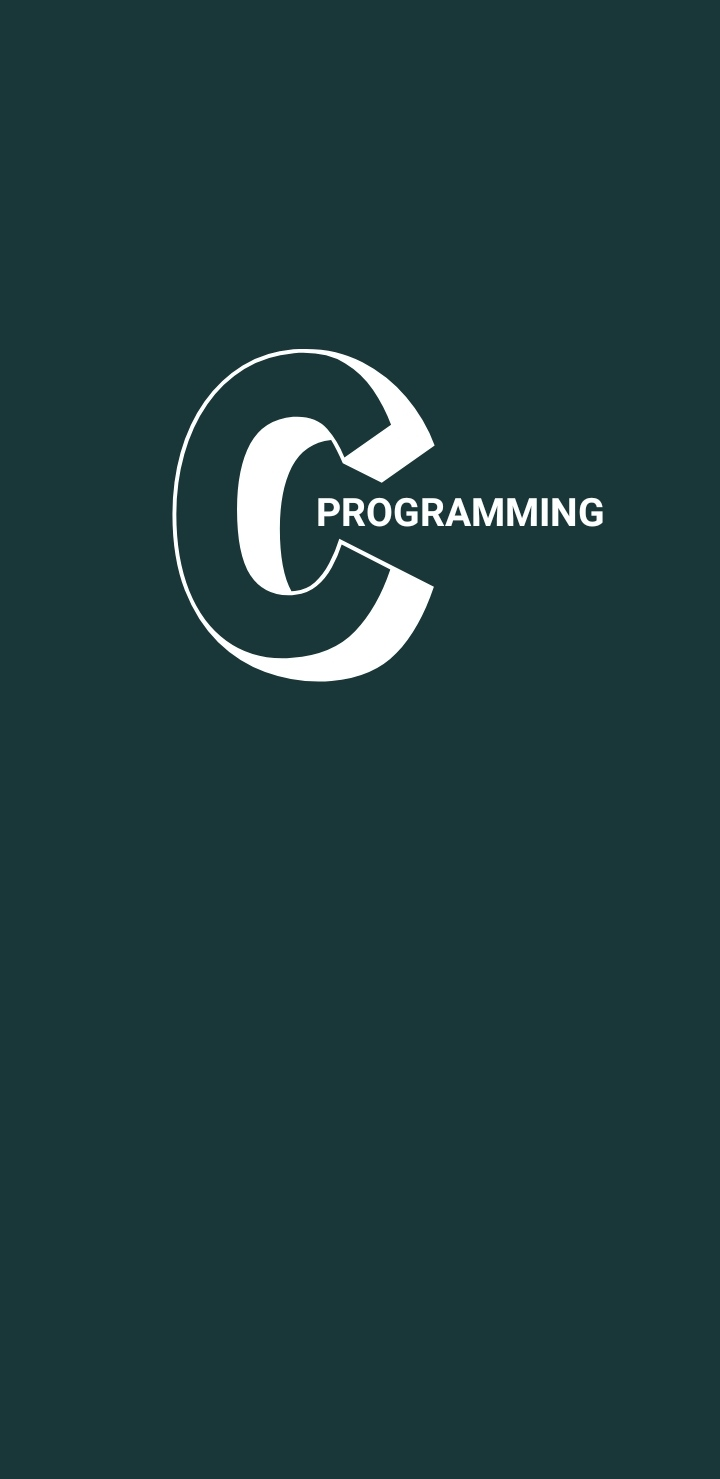
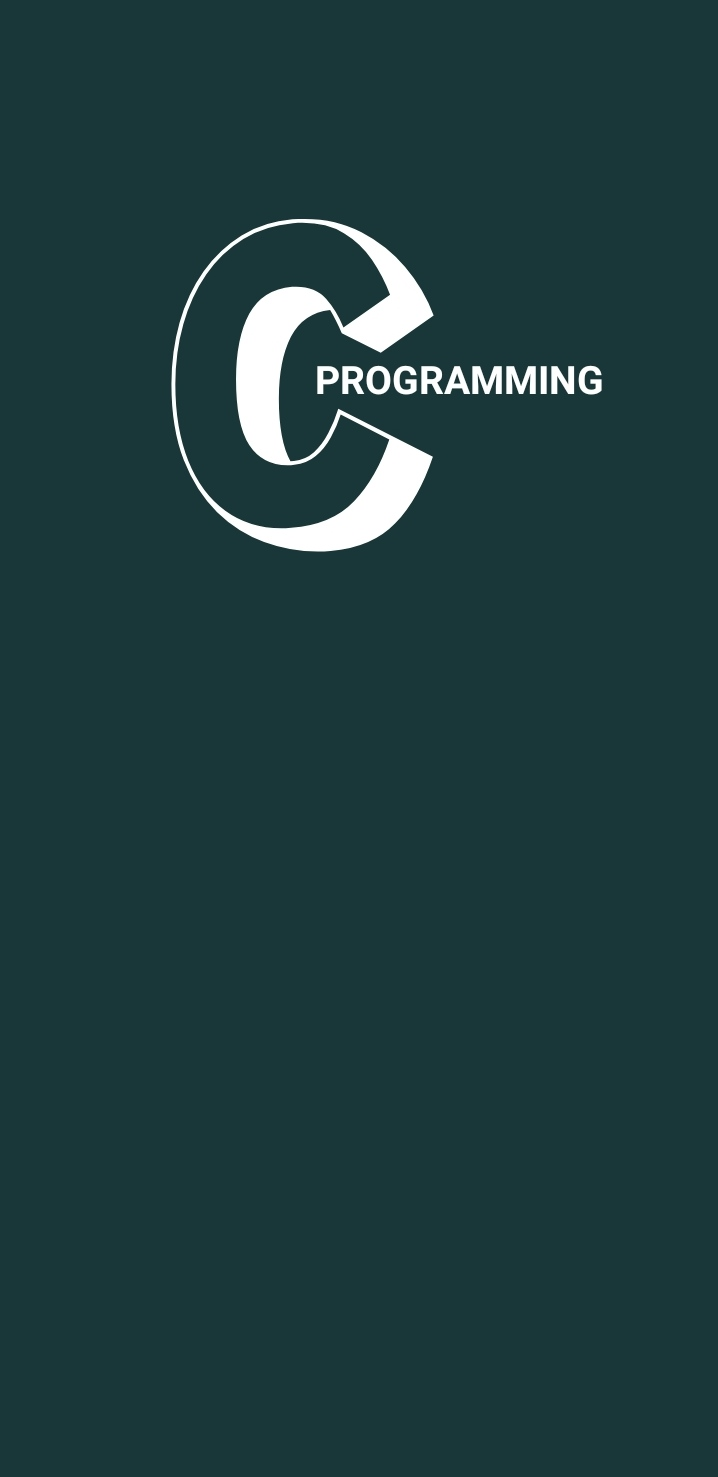
update welcome screen

diff --git a/C-Programming/src/screens/WelcomeScreen.js b/C-Programming/src/screens/WelcomeScreen.js
@@ -9,18 +9,18 @@ export default function WelcomeScreen({ navigation }) {
     return (
         <SafeAreaView style={{ backgroundColor: '#193739', flex: 1 }}>
                 <StatusBar barStyle="light-content"/>
-                <View style={styles.viewStyle}>
+                {/* <View style={styles.viewStyle}>
                     <Text preset="h9" style={styles.cStyle}>C</Text>
                     <Text style={styles.programmingStyle}>PROGRAMMING</Text>
-                </View>
-                {/* <Image  source={require('../../assets/wc.jpg')} style={{ alignSelf: 'center', width: Dimensions.get('screen').width, height: Dimensions.get('screen').height}} /> */}
-
+                </View> */}
+                <ImageBackground  source={require('../../assets/wc.jpg')} style={{ alignSelf: 'center', width: Dimensions.get('screen').width, height: Dimensions.get('screen').height, justifyContent: 'center'}} >
+            
                 <LottieView style={styles.lottie} source={require('../../assets/pro.json')} autoPlay loop />
-                {/* <ImageBackground source={require('../../assets/wc.jpg')} style={{ alignSelf: 'center', width: Dimensions.get('screen').width, height: Dimensions.get('screen').height, alignItems: 'center'}}> */}
+            
                 <Pressable style={styles.btn} onPress={() => navigation.navigate("Home")}>
                     <Text style={styles.getStartedStyle}>Get Started</Text>
                 </Pressable>
-                {/* </ImageBackground> */}
+                </ImageBackground>
         </SafeAreaView>
     );
 }
@@ -51,7 +51,7 @@ const styles = StyleSheet.create({
 
     getStartedStyle: {
         fontWeight: 'bold',
-        fontSize: 35,
+        fontSize: 28,
         paddingHorizontal: 15,
         paddingVertical: 10
     },
@@ -64,9 +64,13 @@ const styles = StyleSheet.create({
         alignSelf: 'center',
     },
     lottie: {
-        height: 350, 
-        width: 350,
+        height: 280, 
+        width: 280,
         marginTop: -25,
         alignSelf: 'center',
+        marginTop: 50, 
+        position: 'absolute',
+
+
     }
 });
